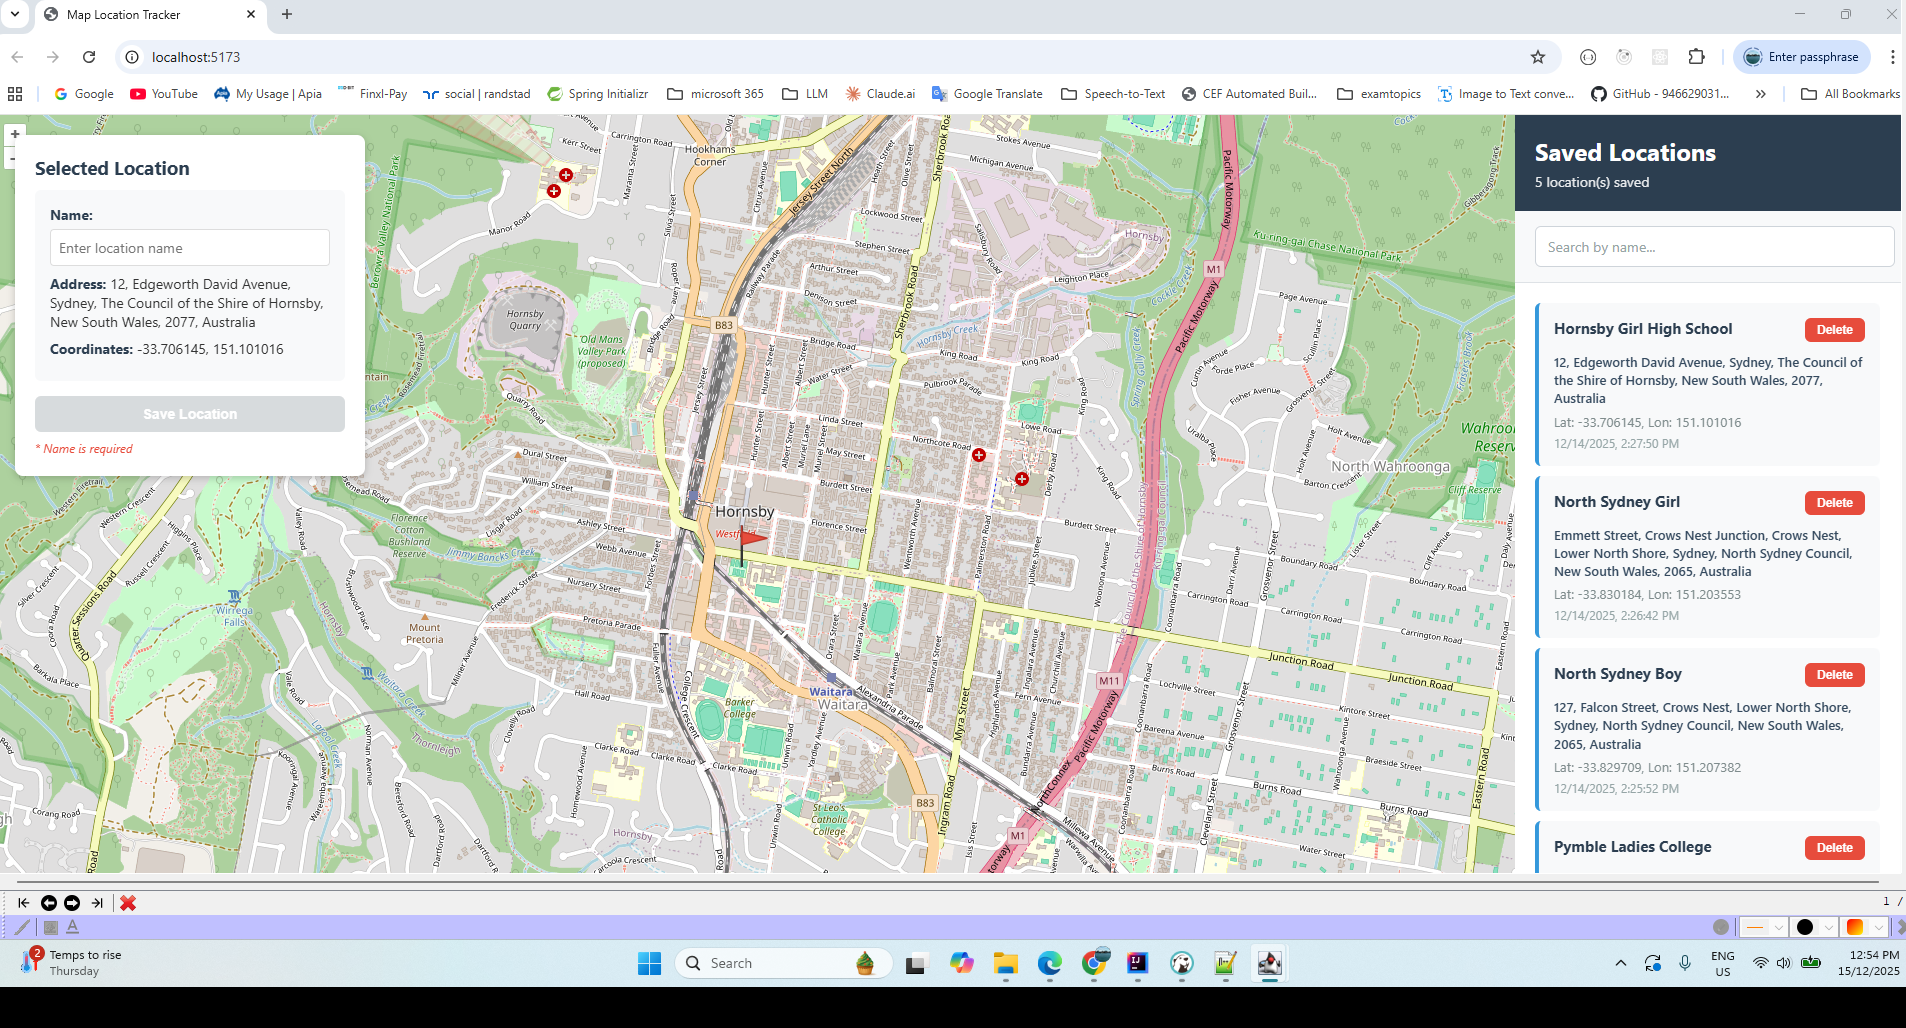
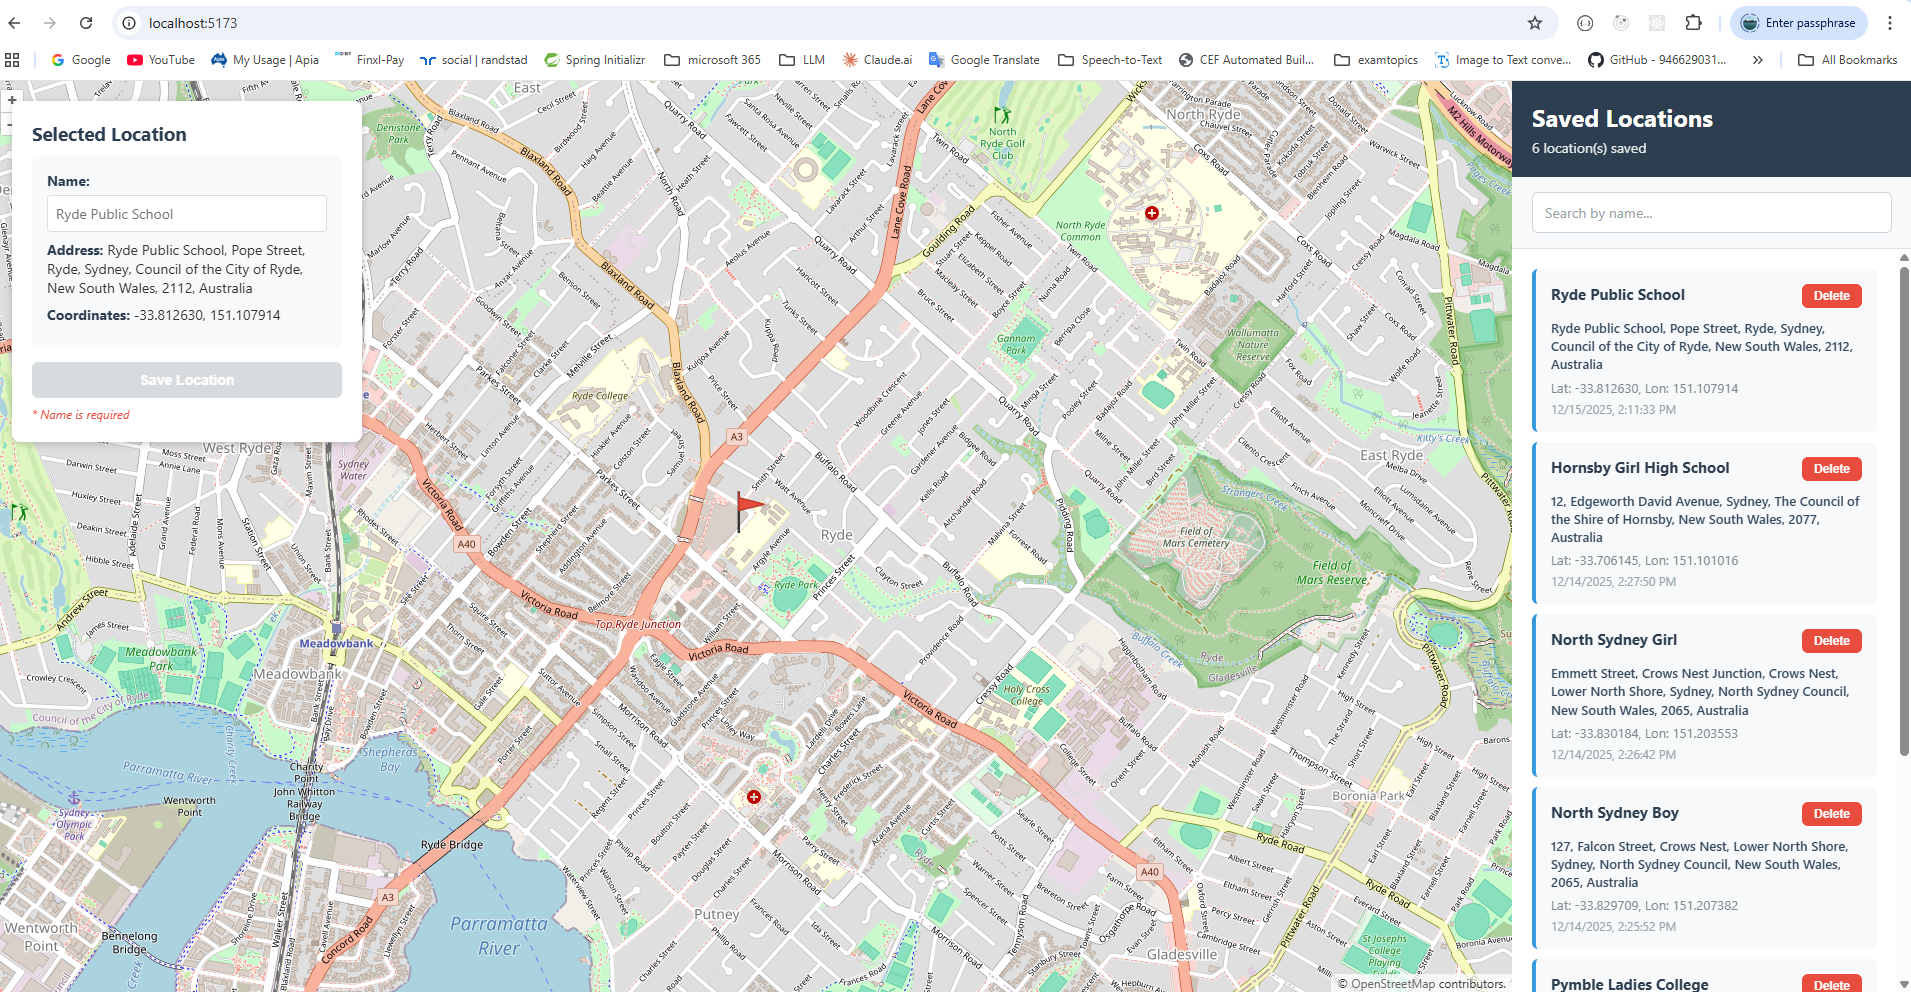
Synchronize the selected location with saved locations

diff --git a/frontend/src/components/MapOverlay.vue b/frontend/src/components/MapOverlay.vue
@@ -8,7 +8,7 @@
           id="location-name"
           type="text"
           v-model="locationName"
-          placeholder="Enter location name"
+          v-bind:placeholder="selectedName || 'Enter location name'"
           class="name-input"
           @input="updateName"
           maxlength="100"
@@ -48,6 +48,7 @@ export default {
     const store = useStore();
     const locationName = ref('');
 
+    const selectedName = computed(() => store.getters.selectedName);
     const selectedCoords = computed(() => store.getters.selectedCoords);
     const selectedAddress = computed(() => store.getters.selectedAddress);
     const saving = computed(() => store.getters.saving);
@@ -92,6 +93,7 @@ export default {
     });
 
     return {
+      selectedName,
       selectedCoords,
       selectedAddress,
       saving,

diff --git a/frontend/src/components/MapView.vue b/frontend/src/components/MapView.vue
@@ -77,6 +77,7 @@ export default {
 
         store.dispatch('setSelectedCoords', coords);
         store.dispatch('setSelectedAddress', null);
+        store.dispatch('setSelectedName', '');
 
         // Add marker
         vectorSource.value.clear();
@@ -114,6 +115,7 @@ export default {
           vectorSource.value.addFeature(marker);
 
           // Update selected location in store
+          store.dispatch('setSelectedName', location.name);
           store.dispatch('setSelectedCoords', [location.longitude, location.latitude]);
           store.dispatch('setSelectedAddress', location.address);
         }
